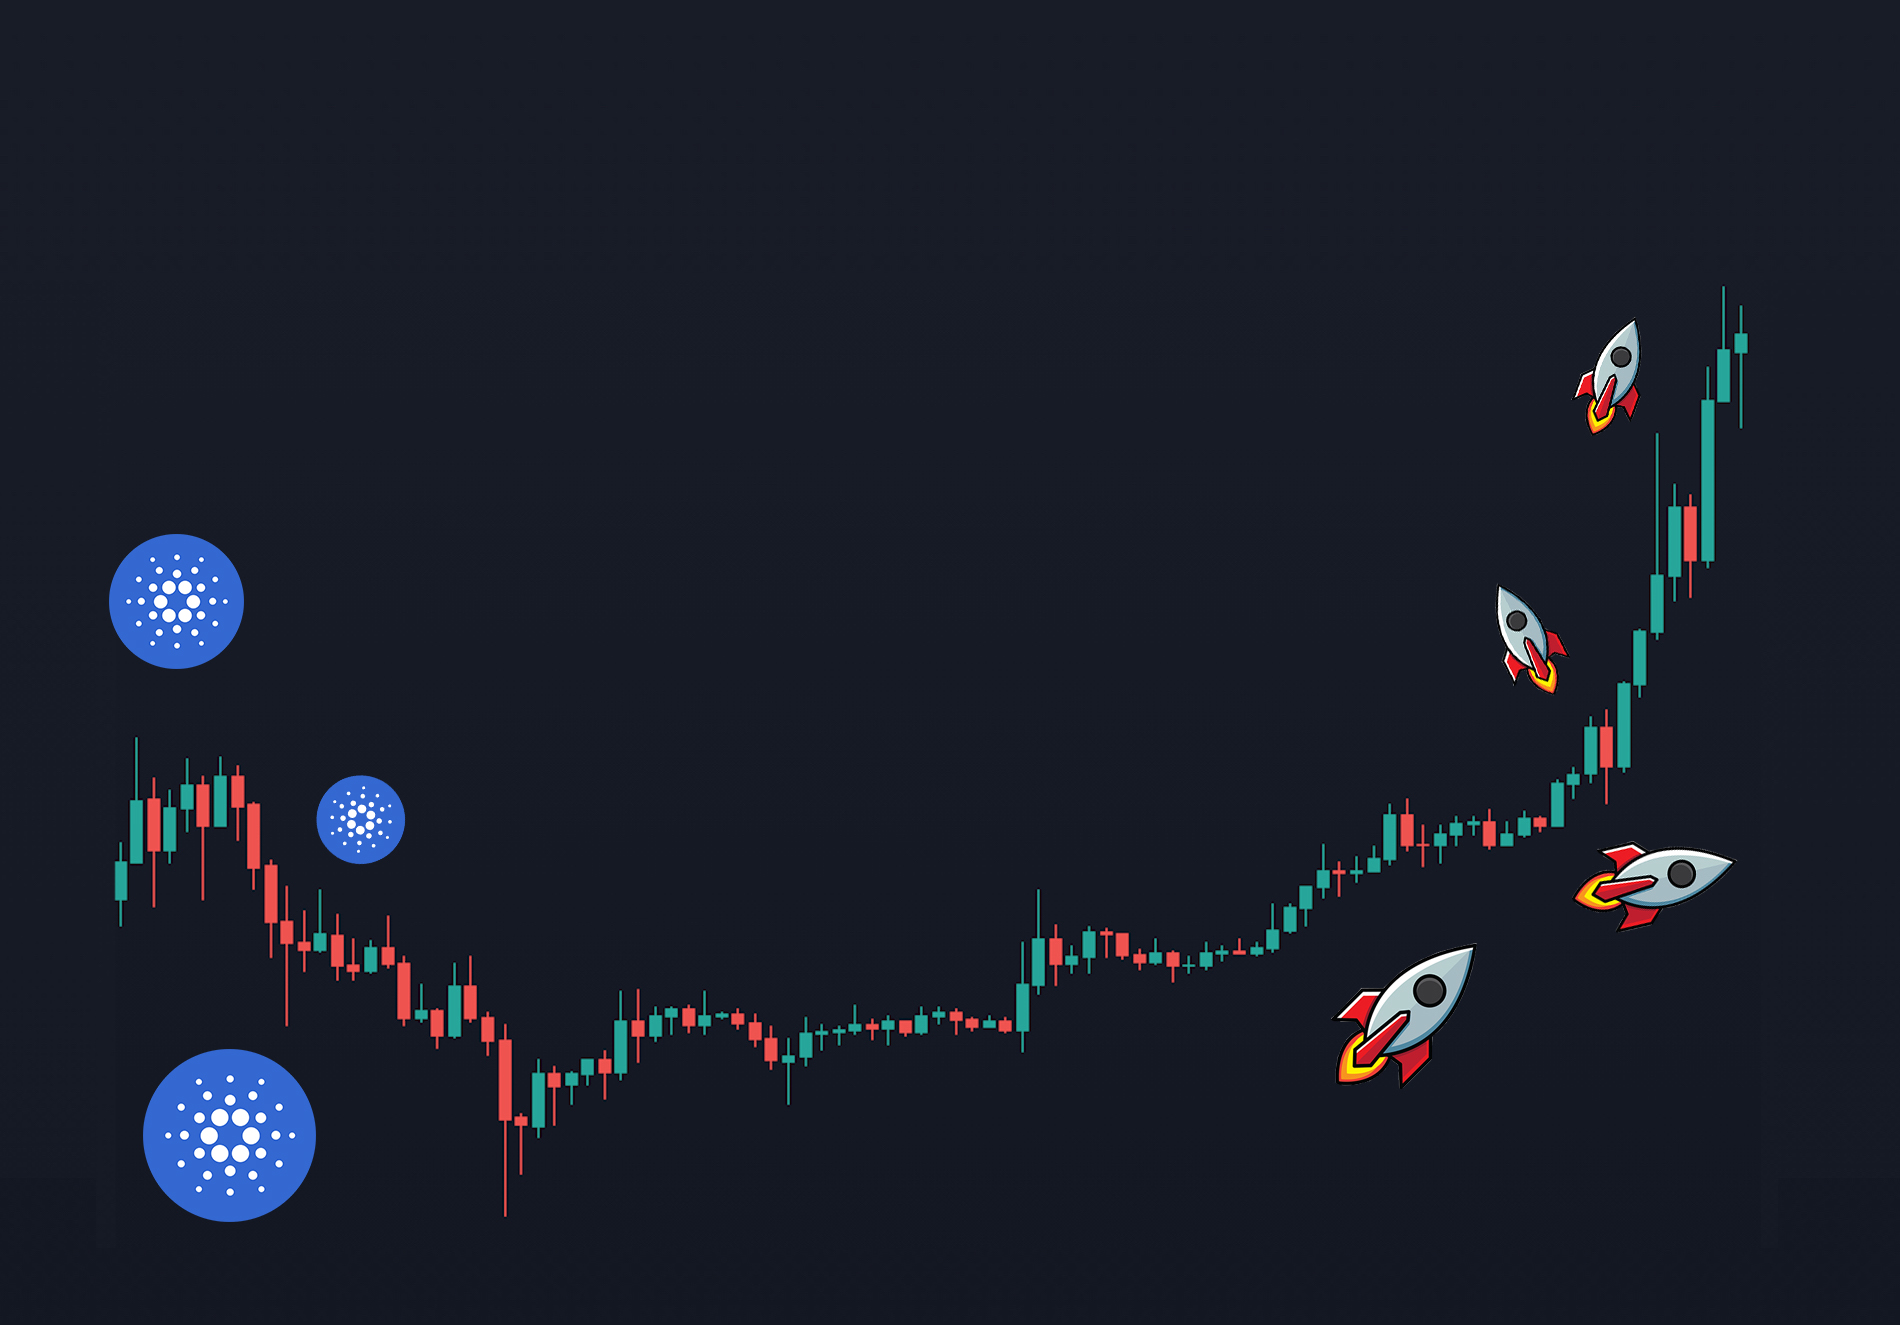
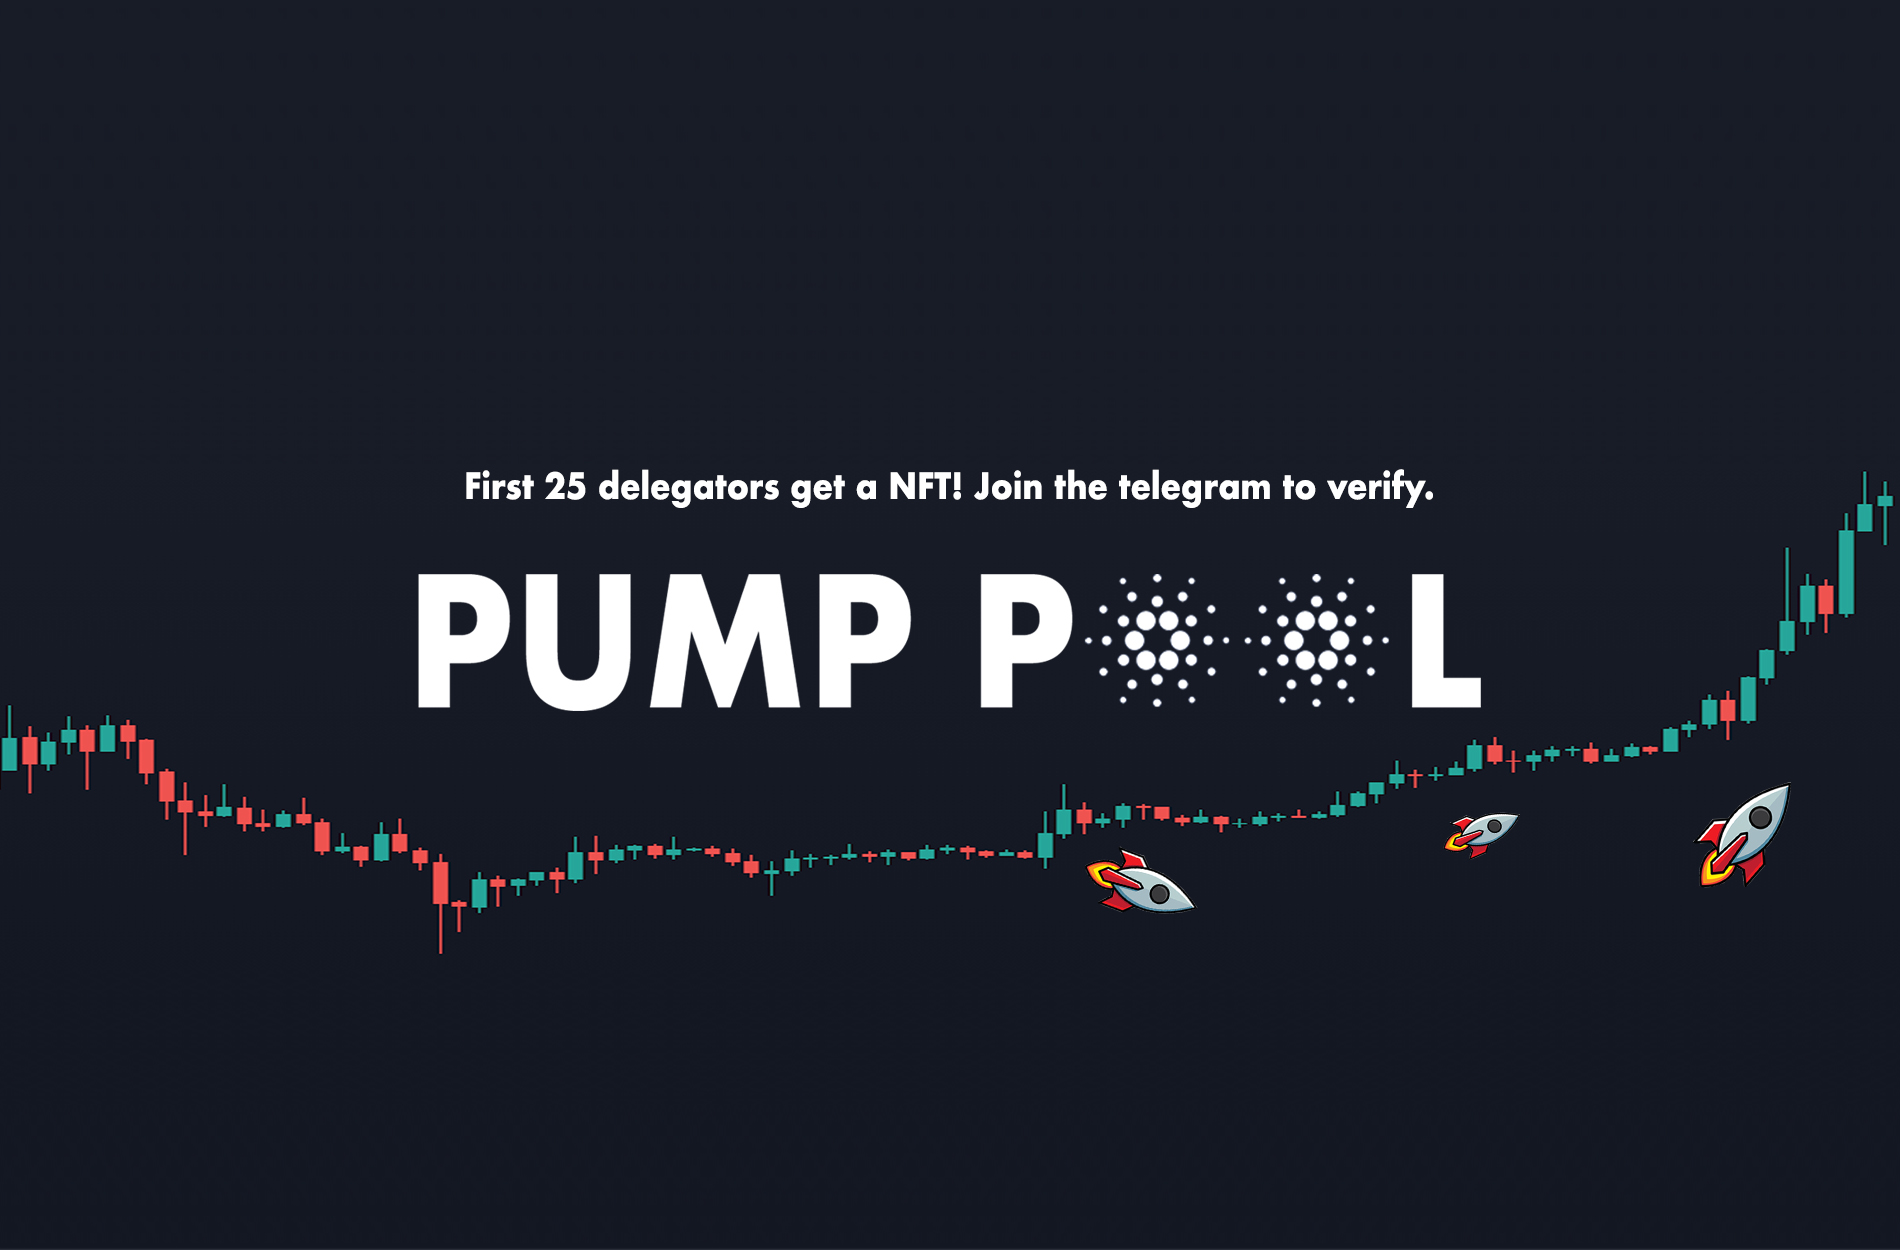
updates

diff --git a/index.html b/index.html
@@ -26,9 +26,9 @@
                 </button>
                 <div class="collapse navbar-collapse" id="navbarResponsive">
                     <ul class="navbar-nav text-uppercase ml-auto">
-                        <li class="nav-item"><a class="nav-link js-scroll-trigger" href="#services">WHY PUMP?</a></li>
+                        <li class="nav-item"><a class="nav-link js-scroll-trigger" href="#services">DELEGATE</a></li>
                         <li class="nav-item"><a class="nav-link js-scroll-trigger" href="#portfolio">WHAT WE OFFER</a></li>
-                        <li class="nav-item"><a class="nav-link js-scroll-trigger" href="#about">OUR TIMELINE</a></li>
+                        <li class="nav-item"><a class="nav-link js-scroll-trigger" href="#about">TIMELINE</a></li>
                         <li class="nav-item"><a class="nav-link js-scroll-trigger" href="#team">Team</a></li>
                         <li class="nav-item"><a class="nav-link js-scroll-trigger" href="#contact">Contact</a></li>
                     </ul>
@@ -38,8 +38,8 @@
         <!-- Masthead-->
         <header class="masthead">
             <div class="container">
-                <div class="masthead-subheading">Welcome to the</div>
-                <div class="masthead-heading text-uppercase">PUMP POOL</div>
+                <div class="masthead-subheading"></div>
+                <div class="masthead-heading text-uppercase"></div>
         </header>
         <!-- Services-->
         <section class="page-section" id="services">
@@ -55,7 +55,7 @@
                             <i class="fas fa-clock fa-stack-1x fa-inverse"></i>
                         </span>
                         <h4 class="my-3">24/7 Uptime</h4>
-                        <p class="text-muted">Alongside our block producer node, we have created 2 reliable relay nodes to ensure minimum latency 100% uptime for many years to come. All nodes have at least 8GB RAM, 160 SSD, and 4TB transfer to manage scalability with ease. We promise immediate and full transparency (regarding any fee, server, or update changes) to our delegators.</p>
+                        <p class="text-muted">Alongside our block producer node, we have created 3 reliable relay nodes to ensure minimum latency 100% uptime for many years to come. All nodes have at least 8GB RAM, 160 SSD, and 4TB transfer to manage scalability with ease. We promise immediate and full transparency (regarding any fee, server, or update changes) to our delegators.</p>
                     </div>
                     <div class="col-md-4">
                         <span class="fa-stack fa-4x">
@@ -63,7 +63,7 @@
                             <i class="fas fa-laptop fa-stack-1x fa-inverse"></i>
                         </span>
                         <h4 class="my-3">Distributed nodes</h4>
-                        <p class="text-muted">Our pool is run using three virtual private servers, two relays and one block producer distributed across different data centers in the United States and Europe. As a result, our pool will not miss a block if one relay becomes redundant (e.g. during maintenance/upgrades).</p>
+                        <p class="text-muted">Our pool is run using four virtual private machines, three relays and one block producer distributed across different data centers in the United States, Asia, and Europe. As a result, our pool will not miss a block if one relay becomes redundant (e.g. during maintenance/ upgrades). We will not miss staking rewards from the Cardano proof-of-stake protocol.</p>
                     </div>
                     <div class="col-md-4">
                         <span class="fa-stack fa-4x">
@@ -71,13 +71,13 @@
                             <i class="fas fa-lock fa-stack-1x fa-inverse"></i>
                         </span>
                         <h4 class="my-3">Maximum Security</h4>
-                        <p class="text-muted">Our nodes are expensive but we sacrifice cost for maximum efficiency and security. We use triple security measures (mobile authenticator, private key, and password) to secure all nodes. We charge the minimum fixed fee (340 ADA) and a 4% variable fee to our delegators to ensure the sustainability of our pool.</p>       
+                        <p class="text-muted">Our nodes are expensive but they ensure maximum efficiency and security. We use triple security measures (mobile authenticator, private key, and password) to secure all nodes. Our security protects our pledge and pool operations. There is no chance of losing ADA by staking because the crypto never leaves your Yoroi/Daedalus wallet.</p>       
                     </div>
                 </div>
             </div>
         </section>
 
-<div style="text-align: center; padding-bottom: 70px;">
+<div style="text-align: center; padding-bottom: 80px;">
             <img src="assets/img/nft.png"
                                   width="400"
                  height="400" />
@@ -88,7 +88,7 @@
             <div class="container">
                 <div class="text-center">
                     <h2 class="section-heading text-uppercase">WHAT WE OFFER our delegators</h2>
-                    <h3 class="section-subheading text-muted">Delegate your ADA using either a <a href="https://yoroi-wallet.com/">Yuroi</a> or <a href="https://daedaluswallet.io/">Daedalus</a> wallet – ADA delegation tutorials can be found on YouTube.</h3>
+                    <h3 class="section-subheading text-muted">Delegate your ADA using either a <a href="https://yoroi-wallet.com/">Yoroi</a> or <a href="https://daedaluswallet.io/">Daedalus</a> wallet – ADA delegation tutorials can be found on YouTube.</h3>
                 </div>
                 <div class="row">
                     <div class="col-lg-4 col-sm-6 mb-4">
@@ -111,11 +111,11 @@
                                 <div class="portfolio-hover">
                                     <div class="portfolio-hover-content"><i class="fas fa-plus fa-3x"></i></div>
                                 </div>
-                                <img class="img-fluid" src="assets/img/portfolio/02-thumbnail.jpg" alt="..." />
+                                <img class="img-fluid" src="assets/img/portfolio/04-thumbnail.jpg" alt="..." />
                             </a>
                             <div class="portfolio-caption">
                                 <div class="portfolio-caption-heading">News</div>
-                                <div class="portfolio-caption-subheading text-muted">We will share the latest Cardano news to keep delegators up to date</div>
+                                <div class="portfolio-caption-subheading text-muted">We will share the latest news to keep delegators up to date</div>
                             </div>
                         </div>
                     </div>
@@ -133,21 +133,6 @@
                             </div>
                         </div>
                     </div>
-                    <div class="col-lg-4 col-sm-6 mb-4 mb-lg-0">
-                        <div class="portfolio-item">
-                            <a class="portfolio-link" data-toggle="modal" href="#portfolioModal4">
-                                <div class="portfolio-hover">
-                                    <div class="portfolio-hover-content"><i class="fas fa-plus fa-3x"></i></div>
-                                </div>
-                                <img class="img-fluid" src="assets/img/portfolio/04-thumbnail.jpg" alt="..." />
-                            </a>
-                            <div class="portfolio-caption">
-                                <div class="portfolio-caption-heading">Telegram</div>
-                                <div class="portfolio-caption-subheading text-muted">A chat channel to share, learn, and understand</div>
-                            </div>
-                        </div>
-                    </div>
-                    
                         </div>
                     </div>
         </section>
@@ -156,7 +141,7 @@
             <div class="container">
                 <div class="text-center">
                     <h2 class="section-heading text-uppercase">our timeline</h2>
-                    <h3 class="section-subheading text-muted">Time isn't the only thing, it's the maing thing - Miles Davis</h3>
+                    <h3 class="section-subheading text-muted">Time isn't the only thing, it's the main thing - Miles Davis</h3>
                 </div>
                 <ul class="timeline">
                     <li>
@@ -196,7 +181,7 @@
                                 <h4>2022 - future</h4>
                                 <h4 class="subheading">Commitment & dedication</h4>
                             </div>
-                            <div class="timeline-body"><p class="text-muted">The future is bright for Cardano and we will remain committed despite haters and extremists. As Charles says, the dog keeps barking and the caravan keeps moving. Cardano will keep moving. The IOHK engineers are fantastic and we can't wait to see what unveils over the next few years.</p></div>
+                            <div class="timeline-body"><p class="text-muted">We charge the minimum fixed fee (340 ADA) and a 4% variable fee to our delegators to ensure the sustainability of our pool. The future is bright for Cardano and we will remain forever committed. As Charles says, the dog keeps barking and the caravan keeps moving. Cardano will keep moving. We can't wait to see what unveils over the next few years.</p></div>
                         </div>
                     </li>
                     <li class="timeline-inverted">
@@ -218,8 +203,12 @@
             <div class="container">
                 <div class="text-center">
                     <h2 class="section-heading text-uppercase">Our Team</h2>
-                    <h3 class="section-subheading text-muted">A Cardano Enthusiast, Quant, and Consultant</h3>
+                    <h3 class="section text-lowercase">A Cardano Enthusiast, Quant, and Consultant</h3>
                 </div>
+                
+                <div style="padding-bottom: 40px;">
+            </div>
+                
                 <div class="row">
                     <div class="col-lg-4">
                         <div class="team-member">
@@ -244,7 +233,7 @@
                     </div>
                 </div>
                 <div class="row">
-                    <div class="col-lg-8 mx-auto text-center"><p class="large text-muted"> Ethan is attending university as a business major and is working as an M&A analyst this summer. Moriz is also attending university as a business major but has a background in computer science and legal studies. Rob has had a few years in the finance industry and is currently a financial consultant. While we wish we could share more details regarding our individual backgrounds, we are limited by the damage that public knowledge can create in the cryptocurrency space. However, we can assure you that each of us is talented and we all will graduate/graduated from top 100 universities worldwide. What matters most is that we are dedicated to running this pool and keeping our delegators happy.</p></div>
+                    <div class="col-lg-9 mx-auto text-center"><p class="large text-muted"> Ethan is attending university as a business major and is working as an M&A analyst this summer. Moriz is also attending university as a business major but has a background in computer science and legal studies. Rob has had a few years in the finance industry and is currently a financial consultant. While we wish we could share more details regarding our individual backgrounds, we are limited by the damage that public knowledge can create within the cryptocurrency space. We can assure you that each of us is talented and we all attended top universities worldwide. What matters most is that we are dedicated to running this pool and keeping our delegators happy.</p></div>
                 </div>
             </div>
         </section>
@@ -270,45 +259,25 @@
             
                                     <div style="text-align: center">
             <img src="assets/img/cycle.png"
-                 width="600"
-                 height="500" />
+                 width="800"
+                 height="700" />
             </div>
             
         <!-- Contact-->
         <section class="page-section" id="contact">
+            <div style="padding-bottom: 50px; padding-top: : 50px;">
+            </div>
             <div class="container">
                 <div class="text-center">
                     <h2 class="section-heading text-uppercase">Contact Us</h2>
-                    <h3 class="section-subheading text-muted">Let us know if you have any concerns.</h3>
+                                    <div style="padding-bottom: 10px; padding-top: : 10px;">
+            </div>
+                    <h3 class="section-heading text">Telegram is the best method to update our delegators. If you have any questions regarding the pool, they can be answered in the Telegram chat. Join the chat by clicking the Telegram icon below!</h3>
                 </div>
-                <form id="contactForm" name="sentMessage" novalidate="novalidate">
                     <div class="row align-items-stretch mb-5">
-                        <div class="col-md-6">
-                            <div class="form-group">
-                                <input class="form-control" id="name" type="text" placeholder="Your Name *" required="required" data-validation-required-message="Please enter your name." />
-                                <p class="help-block text-danger"></p>
-                            </div>
-                            <div class="form-group">
-                                <input class="form-control" id="email" type="email" placeholder="Your Email *" required="required" data-validation-required-message="Please enter your email address." />
-                                <p class="help-block text-danger"></p>
-                            </div>
-                            <div class="form-group mb-md-0">
-                                <input class="form-control" id="phone" type="tel" placeholder="Your Phone *" required="required" data-validation-required-message="Please enter your phone number." />
-                                <p class="help-block text-danger"></p>
-                            </div>
-                        </div>
-                        <div class="col-md-6">
-                            <div class="form-group form-group-textarea mb-md-0">
-                                <textarea class="form-control" id="message" placeholder="Your Message *" required="required" data-validation-required-message="Please enter a message."></textarea>
-                                <p class="help-block text-danger"></p>
-                            </div>
-                        </div>
-                    </div>
                     <div class="text-center">
                         <div id="success"></div>
-                        <button class="btn btn-primary btn-xl text-uppercase" id="sendMessageButton" type="submit">Send Message</button>
                     </div>
-                </form>
             </div>
         </section>
         <!-- Footer-->
@@ -373,7 +342,7 @@
                                     <!-- Project Details Go Here-->
                                     <h2 class="text-uppercase">NEWS</h2>
                                     <p class="item-intro text-muted">We will share the latest Cardano news to keep delegators up to date.</p>
-                                    <img class="img-fluid d-block mx-auto" src="assets/img/portfolio/02-full.jpg" alt="..." />
+                                    <img class="img-fluid d-block mx-auto" src="assets/img/portfolio/04-full.jpg" alt="..." />
                                     <p>Cardano has a lot going on all the time. From hydra to yella to the ERC-20 converter, a lot is happening. It is important to be up to date and we will provide constant Cardano news updates via our Telegram or Twitter pages. As pool operators, we enjoy reading Github commits, IOHK releases, and Cardano-related Twitter pages and would like to better educate our delegators if there are knowledge gaps.</p>
                                     <button class="btn btn-primary" data-dismiss="modal" type="button">
                                         <i class="fas fa-times mr-1"></i>

diff --git a/css/styles.css b/css/styles.css
@@ -10016,7 +10016,7 @@ p {
 }
 
 .page-section {
-  padding: 6rem 0;
+  padding: 4rem 0;
 }
 .page-section h2.section-heading {
   font-size: 2.5rem;
